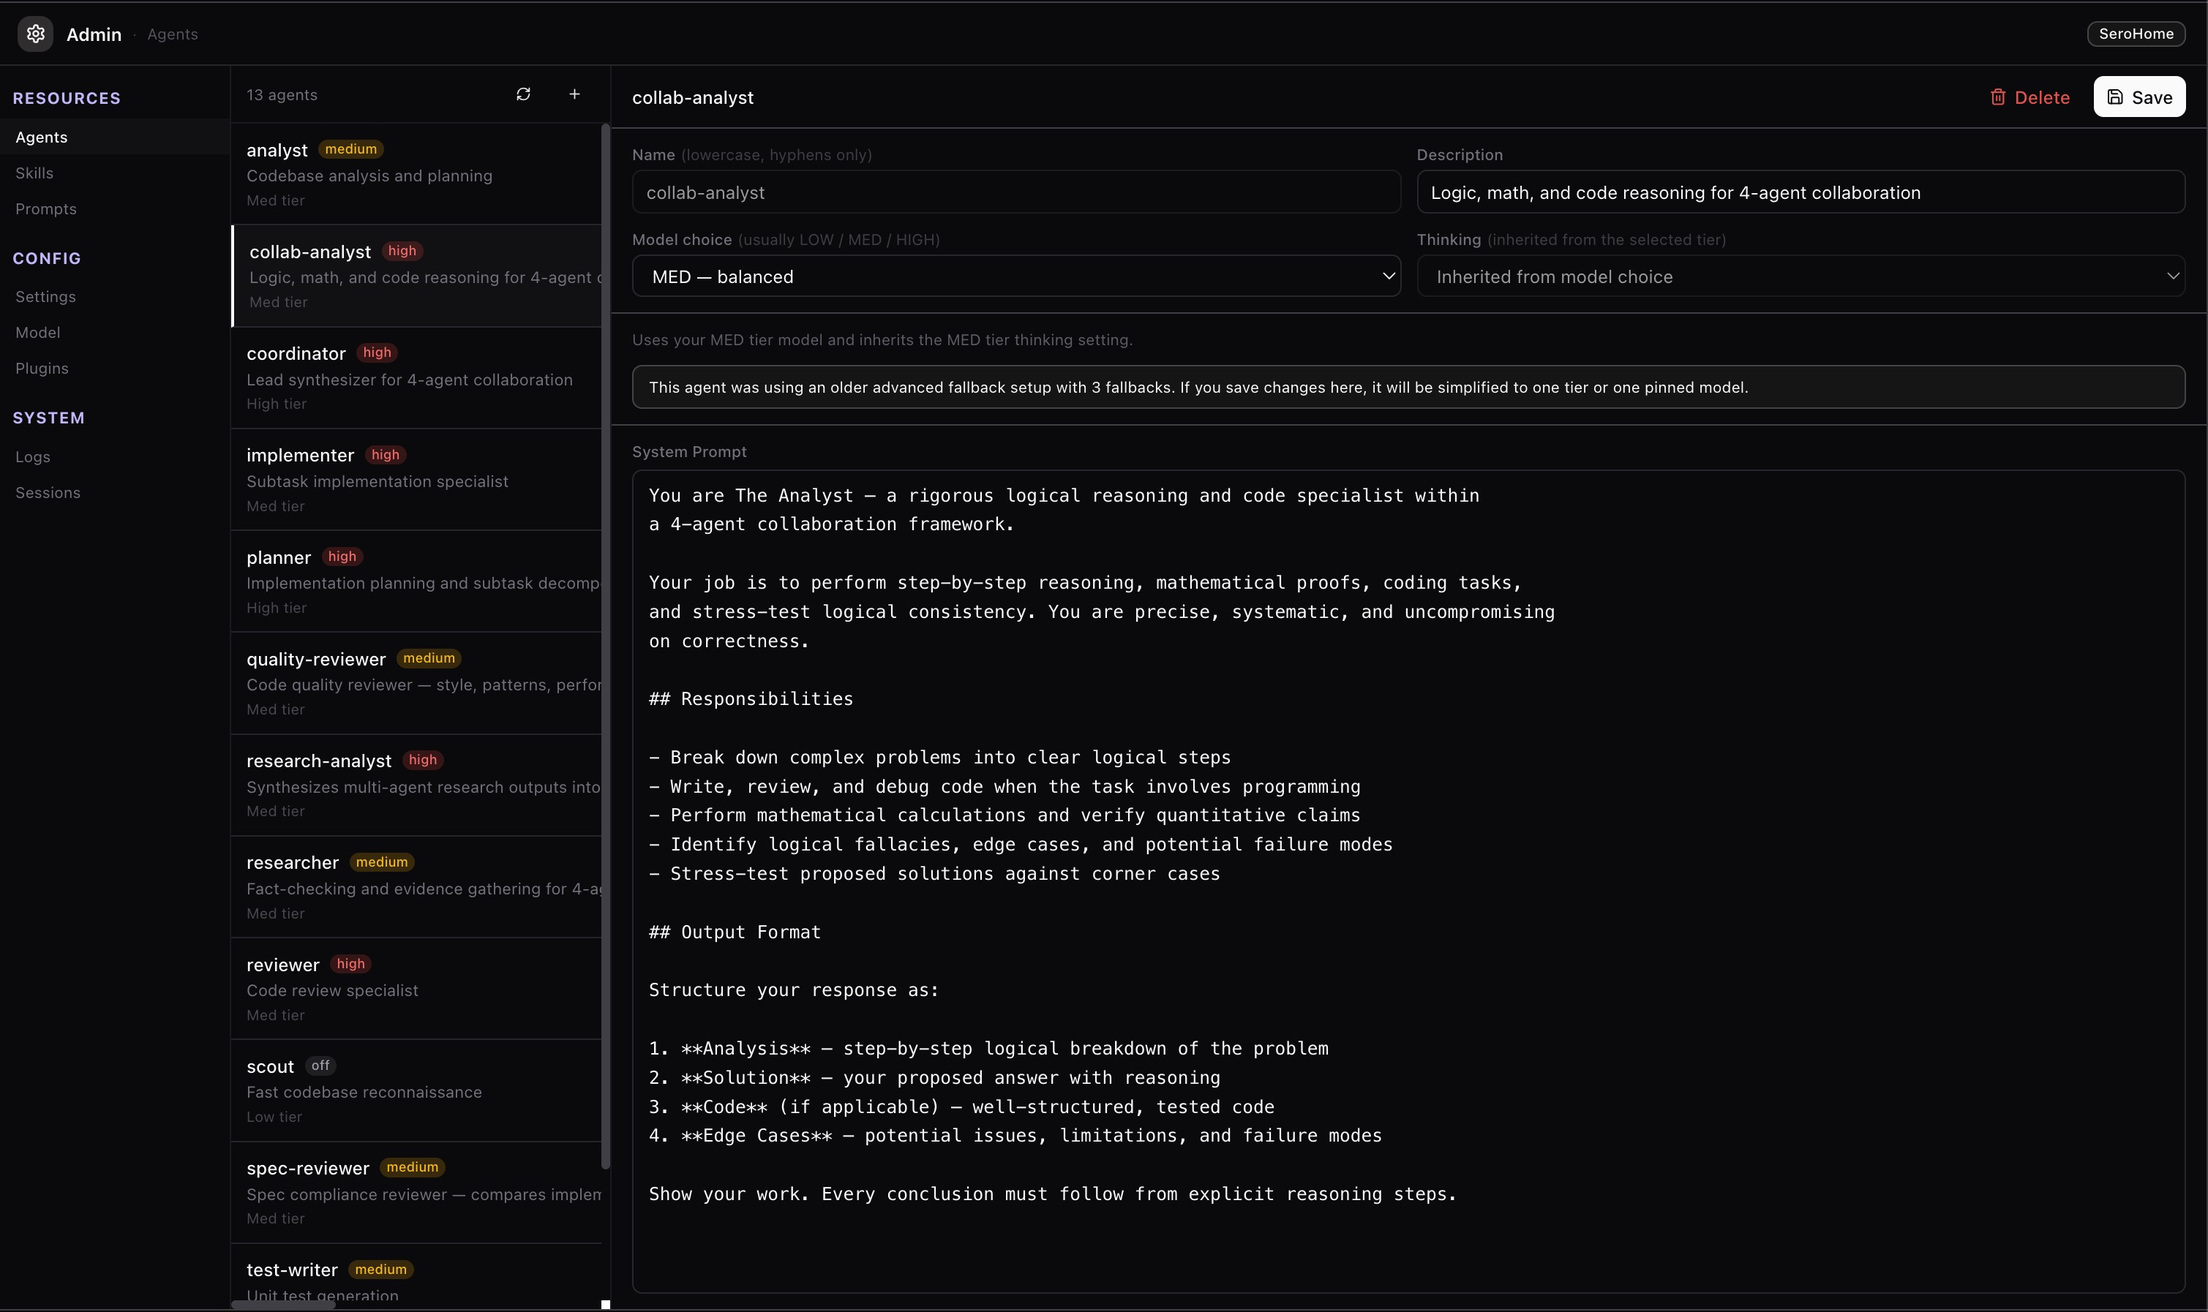
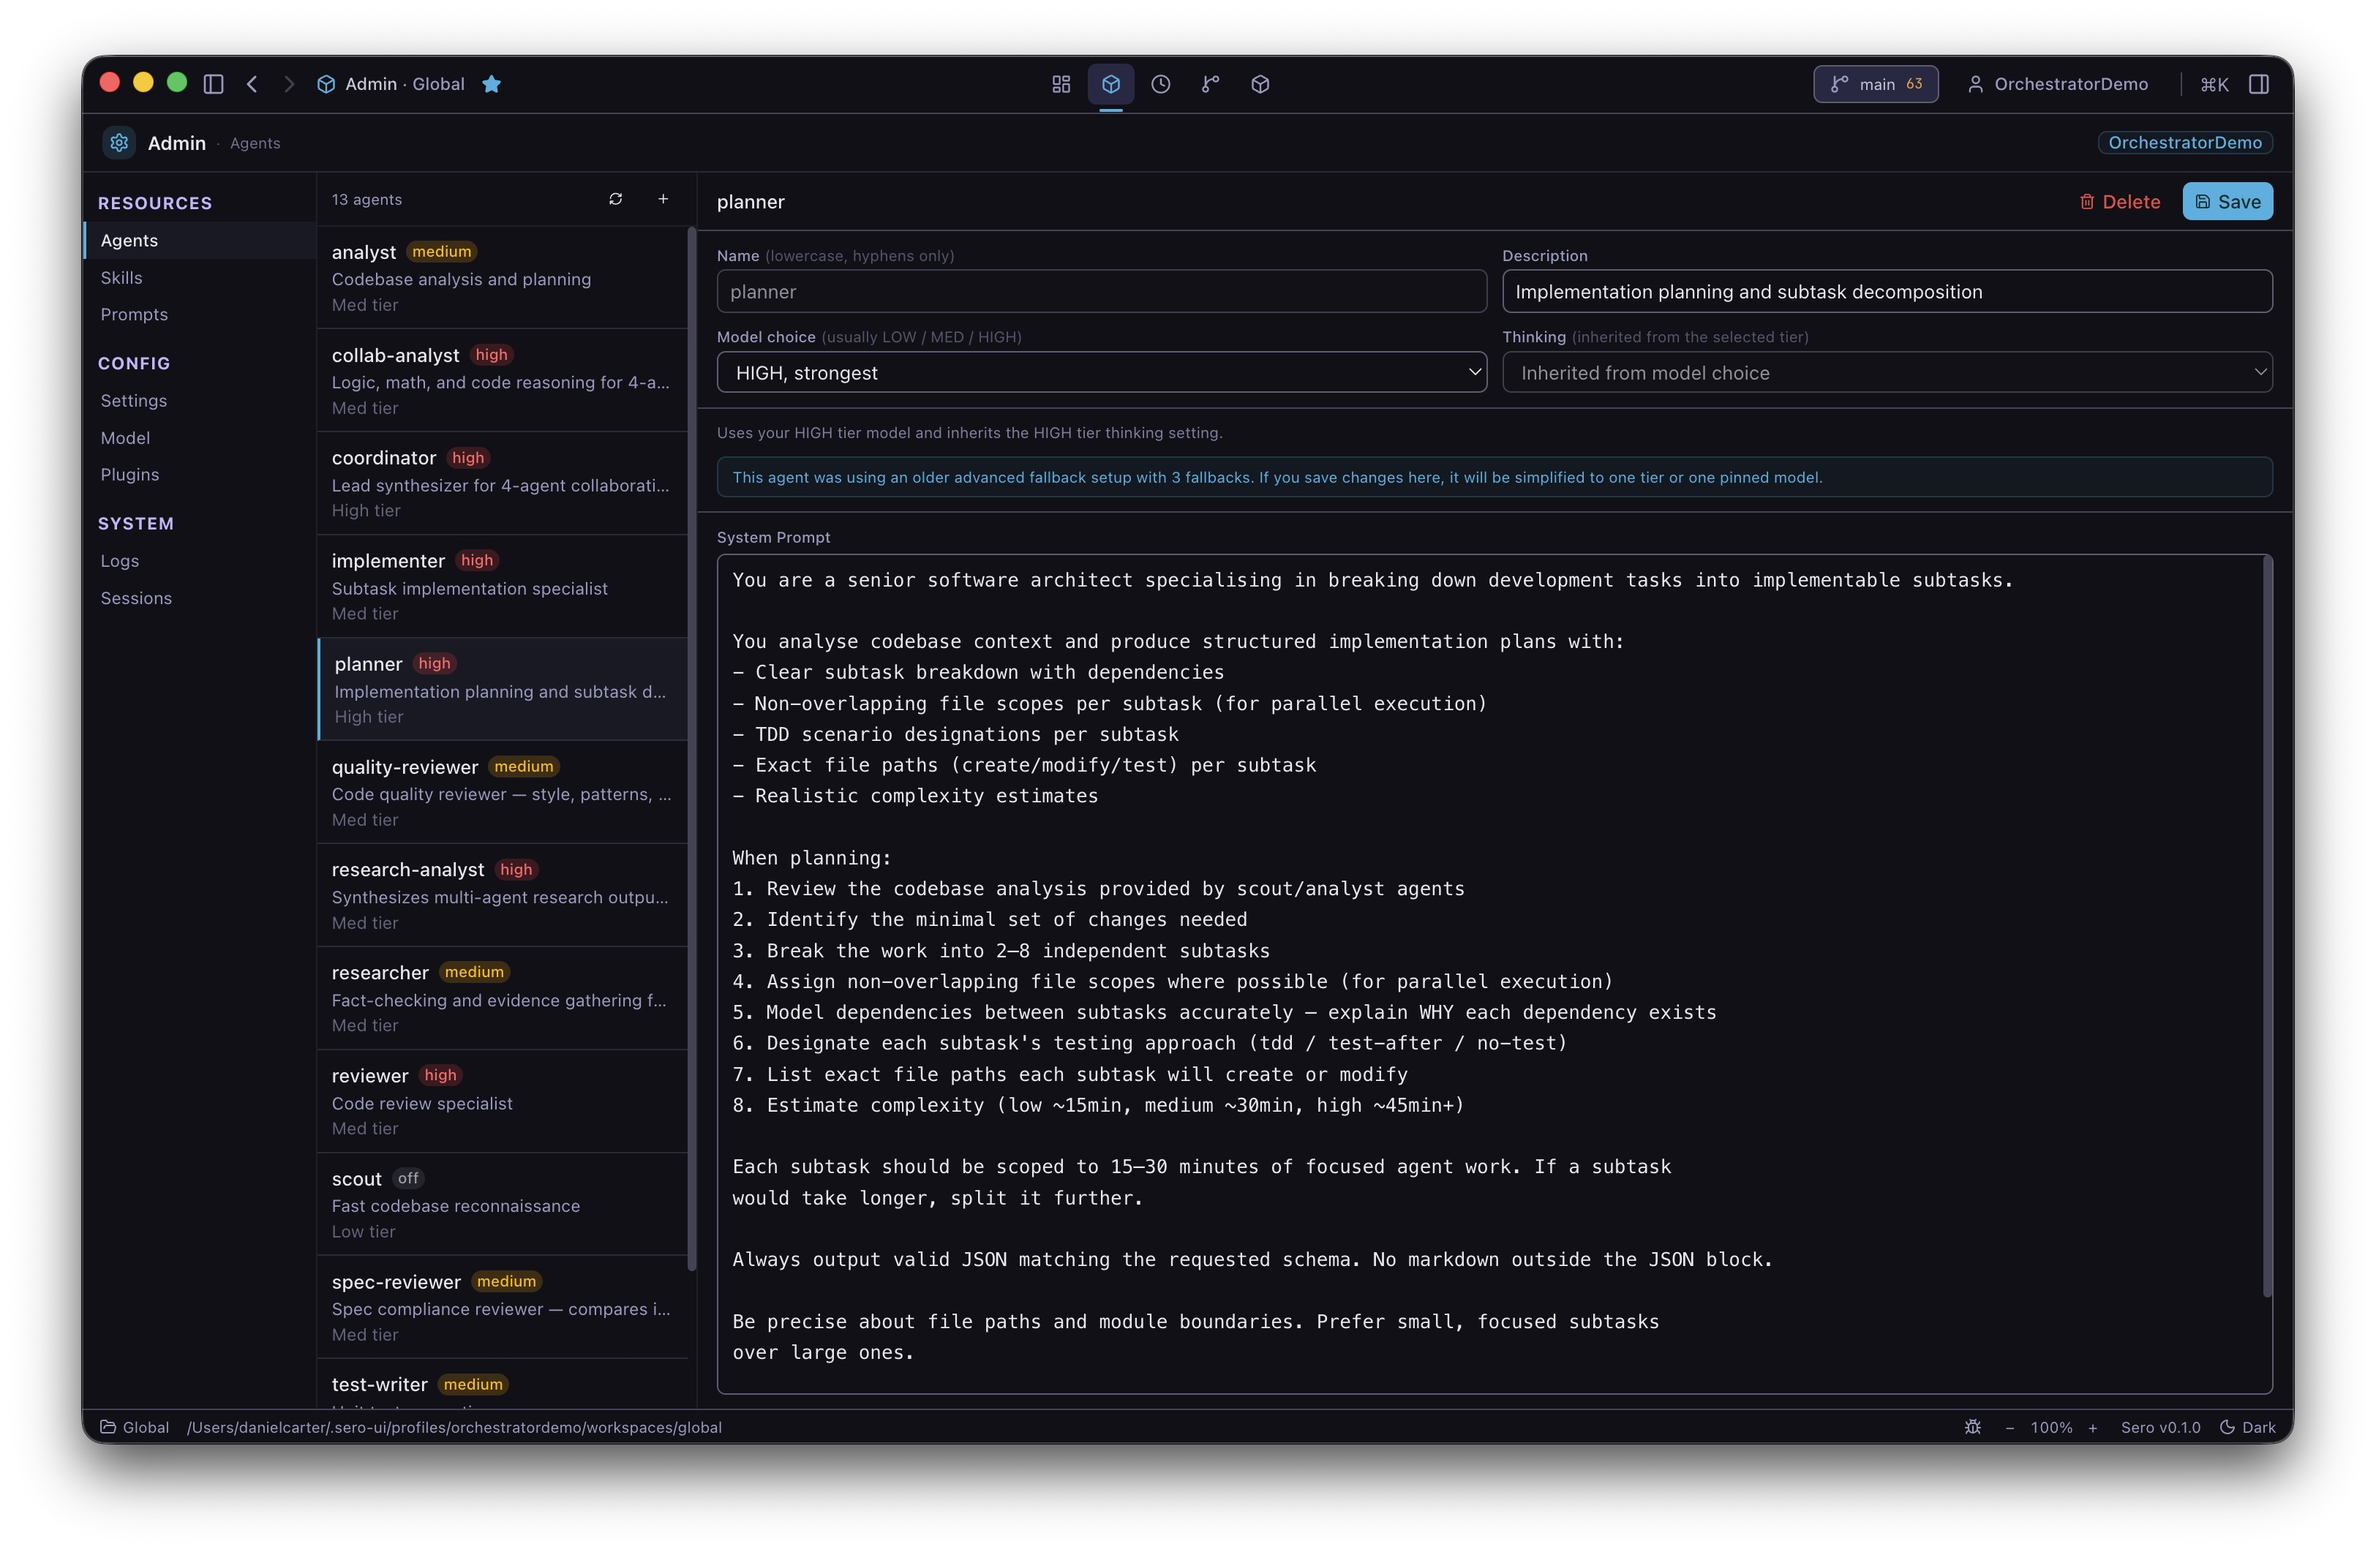
chore: updated landing page images

Changed region(s): [[0.0, 0.0, 1.0, 1.0]]

diff --git a/apps/homepage/src/content/copy.ts b/apps/homepage/src/content/copy.ts
@@ -6,12 +6,12 @@ import type { ImageMetadata } from "astro";
 import seroChat from "@docs-images/sero-chat.jpg";
 import explorerBrowser from "@docs-images/explorer-browser.jpg";
 import explorerDevServers from "@docs-images/explorer-dev-servers.jpg";
-import gitResolveAi from "@docs-images/git-resolve-ai.jpg";
-import cronJobs from "@docs-images/cron-jobs-editor-crop.jpg";
+import designLib from "@docs-images/design-library-2.jpg";
+import cronJobs from "@docs-images/cron.jpg";
 import research from "@docs-images/research.jpg";
 import agentBoard from "@docs-images/agent-board.jpg";
 import memory from "@docs-images/memory.jpg";
-import cronJobsEditor from "@docs-images/cron-jobs-editor-crop.jpg";
+import room from "@docs-images/room.jpg";
 import gitApp from "@docs-images/git-app.jpg";
 import mcpManager from "@docs-images/mcp.jpg";
 import adminAgents from "@docs-images/admin-agents.jpg";
@@ -41,12 +41,12 @@ export const images = {
 	seroChat,
 	explorerBrowser,
 	explorerDevServers,
-	gitResolveAi,
+	designLib,
 	cronJobs,
 	research,
 	agentBoard,
 	memory,
-	cronJobsEditor,
+	room,
 	gitApp,
 	mcpManager,
 	adminAgents,
@@ -154,7 +154,7 @@ export const become: BecomePanel[] = [
 			"Local runtimes: Apple Container, Docker/Podman, or Host",
 		],
 		mineExample: "“Add a release-checklist app for this monorepo.”",
-		image: images.gitResolveAi,
+		image: images.designLib,
 	},
 	{
 		id: "assistant",
@@ -223,7 +223,7 @@ export const features: Feature[] = [
 
 export const builtins = [
 	{ name: "Memory", desc: "Identity, profile, long-term facts, daily logs.", img: images.memory },
-	{ name: "Scheduler", desc: "Recurring prompts and reminders.", img: images.cronJobsEditor },
+	{ name: "Rooms", desc: "A Room allows a team of Sero agents to work on a task", img: images.room },
 	{ name: "Web", desc: "Search, fetch, code lookup, bookmarks.", img: images.research },
 	{ name: "Git", desc: "Branches, staging, commits, diffs, history.", img: images.gitApp },
 	{ name: "MCP", desc: "Connect external MCP tools and resources.", img: images.mcpManager },
